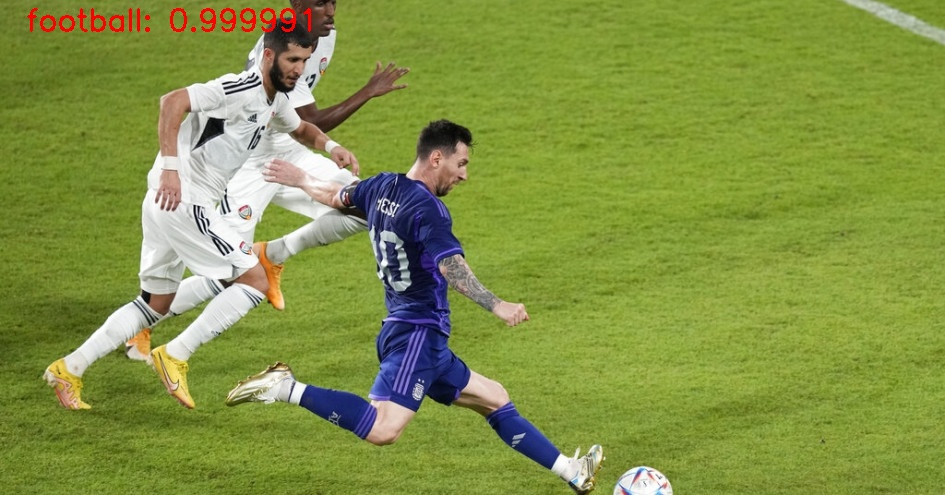
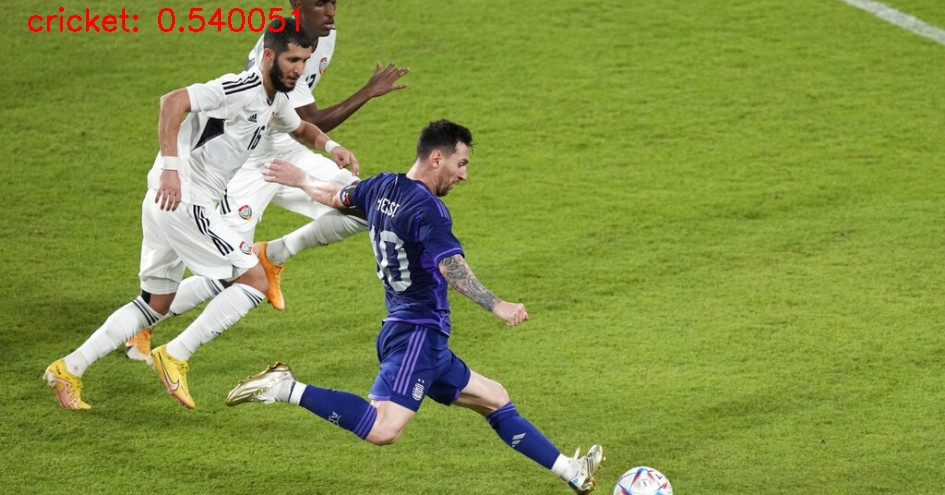
update

Changed region(s): [[0.0307, 0.0, 0.3376, 0.0909]]

diff --git a/main_cls.cpp b/main_cls.cpp
@@ -66,7 +66,6 @@ std::vector<DL_RESULT> ClassifyImage(
         auto max_probs = res.at(maxIndex);
         int predict_label = max_probs.classId;
         auto predict_name = yoloClassifier->classes[predict_label];
-        // std::cout << predict_name << std::endl;
         float confidence = max_probs.confidence;
         max_probs.className = predict_name;
         results.push_back(max_probs);
@@ -81,7 +80,7 @@ void TestClassification() {
 
     std::filesystem::path projectRoot = std::filesystem::current_path().parent_path();
 
-    std::string modelPath = projectRoot / "models/best.onnx";
+    std::string modelPath = projectRoot / "models/best-cls.onnx";
     std::string yamlPath = projectRoot / "configs/classnames.yaml";
     std::string imagePath = projectRoot / "images/16.jpg";
     cv::Size imageSize(416, 416);

diff --git a/inference.cpp b/inference.cpp
@@ -169,10 +169,7 @@ void YOLO_V8::DrawPred(cv::Mat& img, std::vector<DL_RESULT>& result) {
     }
     // Detection mask
     if(RunSegmentation) cv::addWeighted(img, 0.5, mask, 0.5, 0, img); //将mask加在原图上面
-    // cv::imshow("Inference", img);
     cv::imwrite("/home/yibo/yolov8_cpp/YOLOv8-ONNXRuntime-CPP/output/out.jpg", img);
-    // cv::waitKey();
-    // cv::destroyWindow("Inference");
 }
 
  
